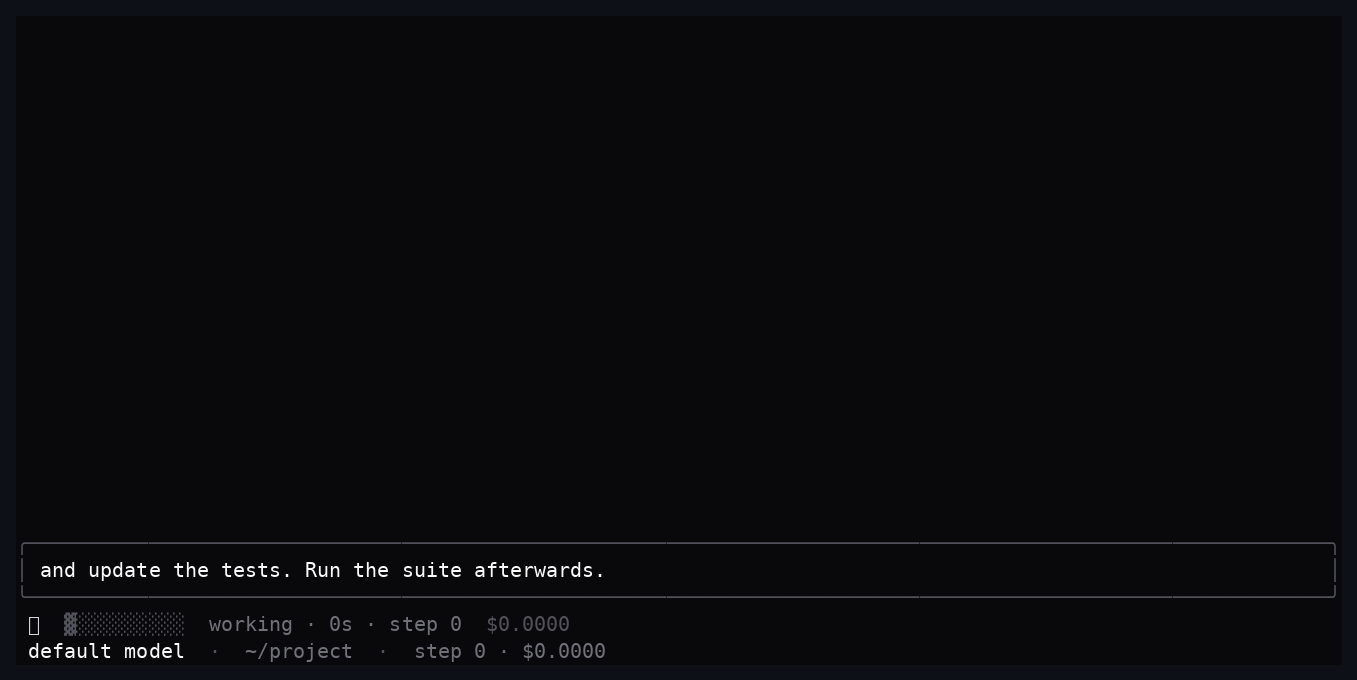
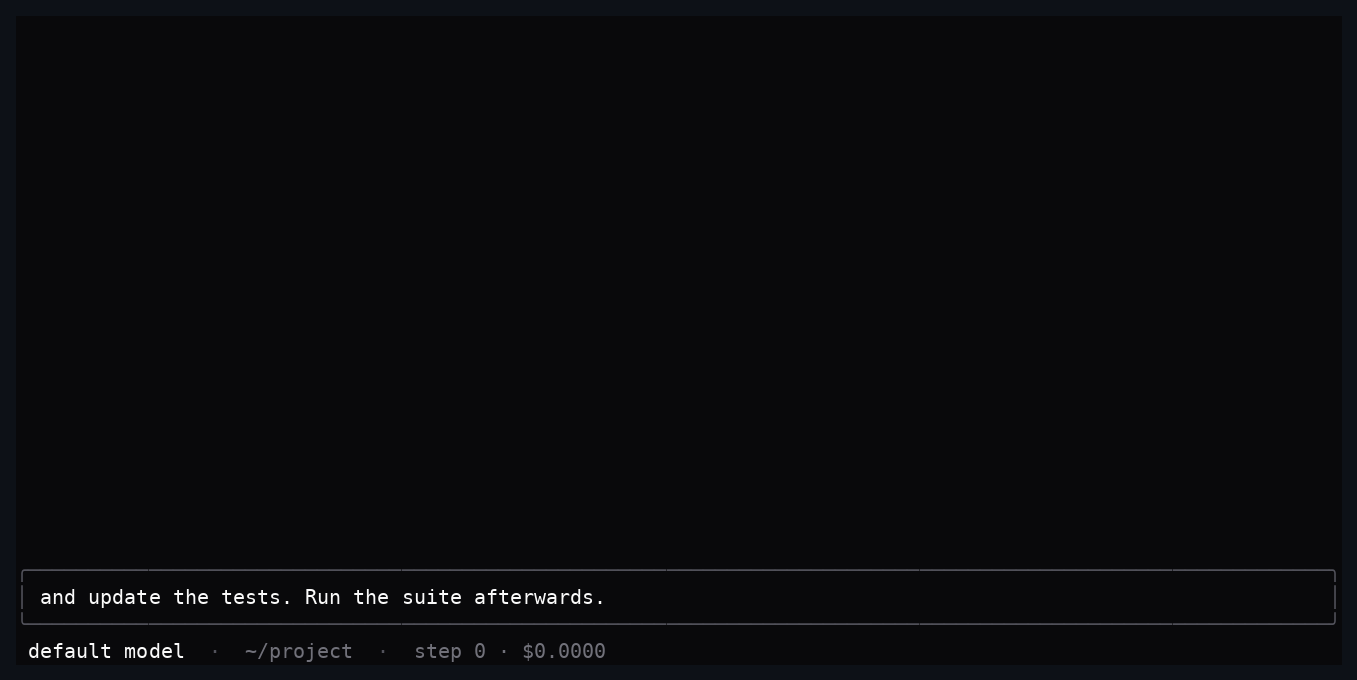
fix: idle startup state and de-duplicated bottom stack
- opening the TUI shows no load state and no status chip until a run starts
  (new idle status), and the loader only appears while the agent works
- loader row no longer repeats step/cost (kept in the meta line below)

Changed region(s): [[0.0, 0.8338, 0.4643, 0.9265], [0.9595, 0.8647, 0.9904, 0.8956]]

diff --git a/src/ui/App.tsx b/src/ui/App.tsx
@@ -37,8 +37,8 @@ export interface AppProps {
   follow?: boolean;
   /** Run mode: start immediately with this task (otherwise wait for the prompt). */
   runSpec?: TaskSpec;
-  /** Force the header status (for screenshot scenes); otherwise derived from the run. */
-  statusOverride?: "running" | "done" | "error";
+  /** Force the bottom-stack status (for screenshot scenes); otherwise derived from the run. */
+  statusOverride?: "running" | "done" | "error" | "idle";
   /** Override persisted settings (tests/screenshots). */
   initialSettings?: Settings;
   /** Persist settings changes to disk (tests set this to false). */
@@ -97,8 +97,8 @@ export function App(props: AppProps) {
   const staticMode = Boolean(props.events);
   const [events, setEvents] = useState<RunEvent[]>(props.events ?? []);
   const [info, setInfo] = useState<RunInfo>(props.info ?? { cost: 0, apiCalls: 0 });
-  const [status, setStatus] = useState<"running" | "done" | "error">(
-    props.statusOverride ?? (staticMode || props.viewPath ? "done" : "running"),
+  const [status, setStatus] = useState<"running" | "done" | "error" | "idle">(
+    props.statusOverride ?? (props.runSpec ? "running" : staticMode || props.viewPath ? "done" : "idle"),
   );
   const [errorText, setErrorText] = useState("");
   const [focusIdx, setFocusIdx] = useState(0);
@@ -198,8 +198,7 @@ export function App(props: AppProps) {
     setStatus("running");
     exitedRef.current = false;
     startedAtRef.current = Date.now();
-    setHintText(undefined);
-    const run = spawnMini({ ...spec, model: spec.model || modelOverride });
+    setHintText(undefined);    const run = spawnMini({ ...spec, model: spec.model || modelOverride });
     live.current = { run };
     live.current.watch = watchTrajectory(run.session.trajPath, applySnapshot);
     run.exited.then((code) => {
@@ -523,9 +522,7 @@ export function App(props: AppProps) {
           }
         }}
       />
-      {displayStatus === "running" ? (
-        <LoaderRow tick={tick} elapsedS={elapsedS} step={step} cost={info.cost} />
-      ) : null}
+      {displayStatus === "running" ? <LoaderRow tick={tick} elapsedS={elapsedS} /> : null}
       <MetaRow
         model={(modelOverride ?? info.model ?? props.runSpec?.model ?? DEFAULT_MODEL) || "default model"}
         path={shortPath(props.cwd)}

diff --git a/tests/render.test.tsx b/tests/render.test.tsx
@@ -402,12 +402,15 @@ describe("bottom stack", () => {
     await running.renderOnce();
     const runFrame = running.captureCharFrame();
     expect(runFrame).toContain("working ·");
-    expect(runFrame).toContain("$0.0217");
     // compact stack: the meta line comes right after the loader row
     const lines = runFrame.split("\n").map((l) => l.trimEnd());
     const loaderIdx = lines.findIndex((l) => l.includes("working ·"));
+    // no duplicated step/price on the loader row (they live in the meta line below)
+    expect(lines[loaderIdx]).not.toContain("step");
+    expect(lines[loaderIdx]).not.toContain("$");
     expect(lines[loaderIdx + 1]).toContain("xiaomi/mimo-v2.6-pro");
     expect(lines[loaderIdx + 1]).toContain("⎇ main");
+    expect(lines[loaderIdx + 1]).toContain("step 0 · $0.0217");
     // the prompt box no longer has empty rows: 3 rows (border, text, border)
     const boxTop = lines.findIndex((l) => l.startsWith("╭") && lines[lines.indexOf(l) + 1]?.includes("what should mini do"));
     const boxBottom = lines.findIndex((l) => l.startsWith("╰") && lines.indexOf(l) > boxTop);
@@ -421,5 +424,15 @@ describe("bottom stack", () => {
     await done.renderOnce();
     expect(done.captureCharFrame()).not.toContain("working ·");
     done.renderer.destroy();
+  });
+
+  test("opening the TUI shows no load state until a run starts", async () => {
+    const setup = await testRender(<App cwd="/home/jaime/mini-tui" onQuit={() => {}} />, { width: 90, height: 18 });
+    await setup.renderOnce();
+    const frame = setup.captureCharFrame();
+    expect(frame).toContain("what should mini do"); // prompt ready
+    expect(frame).not.toContain("working ·"); // no loader while idle
+    expect(frame).not.toContain("●"); // no status chip while idle
+    setup.renderer.destroy();
   });
 });

diff --git a/src/ui/components/LoaderRow.tsx b/src/ui/components/LoaderRow.tsx
@@ -4,7 +4,7 @@ const FRAMES = ["⣾", "⣽", "⣻", "⢿", "⡿", "⣟", "⣯", "⣷"];
 const BAR_CELLS = 10;
 
 /** Shimmering load state shown right below the prompt while the agent works. */
-export function LoaderRow(props: { tick: number; elapsedS: number; step: number; cost: number }) {
+export function LoaderRow(props: { tick: number; elapsedS: number }) {
   const spinner = FRAMES[props.tick % FRAMES.length];
   const head = props.tick % BAR_CELLS;
   const bar = Array.from({ length: BAR_CELLS }, (_, i) => (i === head ? "▓" : "░")).join("");
@@ -12,10 +12,7 @@ export function LoaderRow(props: { tick: number; elapsedS: number; step: number;
     <box flexDirection="row" gap={2} paddingX={1}>
       <text fg={colors.accent}>{spinner}</text>
       <text fg={colors.faint}>{bar}</text>
-      <text fg={colors.dim}>
-        working · {props.elapsedS}s · step {props.step}
-      </text>
-      <text fg={colors.faint}>${props.cost.toFixed(4)}</text>
+      <text fg={colors.dim}>working · {props.elapsedS}s</text>
     </box>
   );
 }

diff --git a/src/ui/components/MetaRow.tsx b/src/ui/components/MetaRow.tsx
@@ -13,6 +13,7 @@ export function MetaRow(props: {
   status: string;
 }) {
   const statusColor = props.status === "error" ? colors.err : props.status === "done" ? colors.ok : colors.dim;
+  const showStatus = props.status === "done" || props.status === "error";
   return (
     <box flexDirection="row" gap={2} paddingX={1}>
       <text fg={colors.text}>{props.model}</text>
@@ -23,7 +24,7 @@ export function MetaRow(props: {
       <text fg={colors.dim}>
         step {props.step} · ${props.cost.toFixed(4)}
       </text>
-      {props.status !== "running" ? <text fg={statusColor}>● {props.status}</text> : null}
+      {showStatus ? <text fg={statusColor}>● {props.status}</text> : null}
     </box>
   );
 }

diff --git a/README.md b/README.md
@@ -29,8 +29,8 @@ outputs — into cards, badges and banners. The harness runs completely untouche
   the redundant `exit Submitted` echo of it is never shown.
 - **One quiet card per bash step** (command + its output), shadcn-style: zinc neutrals, rounded
   surfaces, a single subtle accent and semantic colors used sparingly. Right under the prompt
-  sits an animated load state while the agent works (`⣾ ▓░░░░ working · 34s · step 2 · $0.0217`),
-  followed by the selected model, the working path and the checked-out git branch.
+  sits an animated load state while the agent works (`⣾ ▓░░░░ working · 34s`), followed by the
+  selected model, the working path, the checked-out git branch and the run stats.
 - **Output display modes** — collapsed (just a `1 tool call` line), trimmed to 2 lines, or fully
   expanded. Pick one in the **settings panel** (`/settings`); it persists across runs. `e` still
   expands or collapses any block individually.
